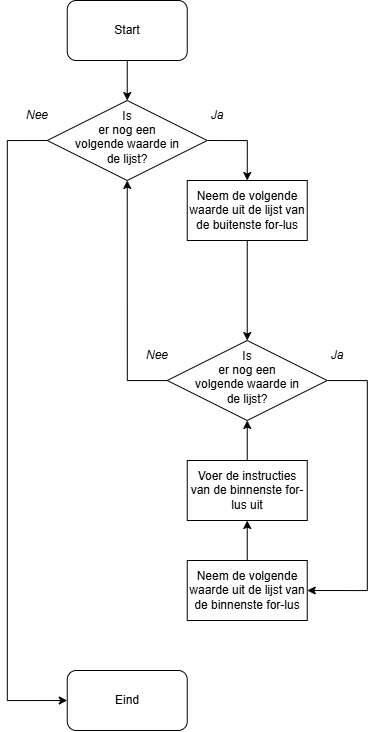
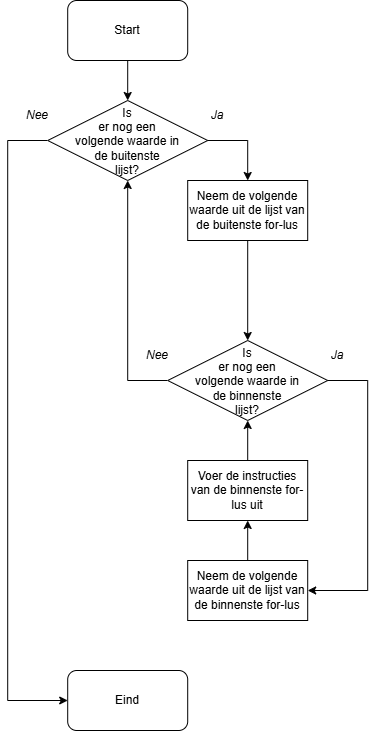
Add explanation for using 'end' in print() and update lesson topics in index

diff --git a/book/blok1/index.md b/book/blok1/index.md
@@ -12,13 +12,13 @@ Introductie van blok 1.
 
 ## Spoorboekje
 
-| week           | lesstof                                                          | huiswerkadvies                                                                                                                       |
-| -------------- | ---------------------------------------------------------------- | ------------------------------------------------------------------------------------------------------------------------------------ |
-| 1.1:<br> 24-08 | Introductieweek / geen les                                       | Introductieweek / geen les                                                                                                           |
-| 1.2:<br> 31-08 | Grondslagen:<br>Toestanden<br><br>Python Arcade 1                | <br>Maak de vragen in OneNote van dit onderwerp<br><br>Maak de herhalingsvragen van H1 (onderaan pagina)                             |
-| 1.3:<br> 07-09 | Grondslagen:<br>Algoritmen & beslissingen<br><br>Python Arcade 3 | <br>Maak de vragen in OneNote van dit onderwerp<br>Maak de herhalingsvragen van H3 (onderaan pagina)                                 |
-| 1.4:<br> 14-09 | Grondslagen:<br>Datastructuren<br><br>Python Arcade 4            | <br>Maak de vragen in OneNote van dit onderwerp<br><br>Maak de herhalingsvragen van H4 (onderaan pagina)                             |
-| 1.5:<br> 21-09 | Grondslagen:<br>Lussen<br><br>Python Arcade 6                    | <br>Maak de vragen in OneNote van dit onderwerp<br><br>Maak de herhalingsvragen van H6 (onderaan pagina)                             |
-| 1.6:<br> 28-09 | Grondslagen:<br>Grammatica’s<br><br>Python Arcade 7              | <br>Maak de vragen in OneNote van dit onderwerp<br><br>Maak de herhalingsvragen van H7 (onderaan pagina)                             |
-| 1.7:<br> 05-10 | Grondslagen:<br>Toeval & combineren<br><br>Python Arcade 9       | <br>Maak de vragen in OneNote van dit onderwerp<br><br>Maak de herhalingsvragen van H9 (onderaan pagina) <br><br> Maak de oefentoets |
+| week           | lesstof                                                          | huiswerkadvies                                                                                             |
+| -------------- | ---------------------------------------------------------------- | ---------------------------------------------------------------------------------------------------------- |
+| 1.1:<br> 24-08 | Introductieweek / geen les                                       | Introductieweek / geen les                                                                                 |
+| 1.2:<br> 31-08 | Grondslagen:<br>Toestanden<br><br>Python Arcade 1                | <br>Maak de vragen in OneNote van dit onderwerp<br><br>Maak de herhalingsvragen van H1 (onderaan pagina)   |
+| 1.3:<br> 07-09 | Grondslagen:<br>Algoritmen & beslissingen<br><br>Python Arcade 3 | <br>Maak de vragen in OneNote van dit onderwerp<br>Maak de herhalingsvragen van H3 (onderaan pagina)       |
+| 1.4:<br> 14-09 | Grondslagen:<br>Datastructuren<br><br>Python Arcade 7            | <br>Maak de vragen in OneNote van dit onderwerp<br><br>Maak de herhalingsvragen van H7 (onderaan pagina)   |
+| 1.5:<br> 21-09 | Grondslagen:<br>Lussen<br><br>Python Arcade 4 & 6                | <br>Maak de vragen in OneNote van dit onderwerp<br><br>Maak de herhalingsvragen van H4+6 (onderaan pagina) |
+| 1.6:<br> 28-09 | Grondslagen:<br>Functies<br><br>Python Arcade 9                  | <br>Maak de vragen in OneNote van dit onderwerp<br><br>Maak de herhalingsvragen van H9 (onderaan pagina)   |
+| 1.7:<br> 05-10 | Herhaling & leren voor de toets<br><br>Oefentoets                | <br>Maak de vragen in OneNote van dit onderwerp<br><br>Maak de oefentoets                                  |
 | TW1 <br> 07-10 | Toets T1:<br>grondslagen + inleiding programmeren                |

diff --git a/book/blok1/hoofdstuk4.md b/book/blok1/hoofdstuk4.md
@@ -310,6 +310,11 @@ Uitvoer:
 * * * * *
 ```
 
+### Gebruik van end in print()
+
+In het voorbeeld hierboven zie je dat er gebruik wordt gemaakt van `end=" "` in de functie `print()`. Eerder gebruikte je `end=` niet bij deze functie. In dat geval komt er altijd een **nieuwe regel** na het printen van de tekst. Als `end` wel gebruikt wordt, zal het gegeven symbool (in het voorbeeld hierboven een spatie) achter te tekst komen in plaats van een nieuwe regel.
+De tweede `print()` die wordt uitgevoerd naar de binnenste for-lus, zorgt er dus voor dat er een nieuwe regel gestart wordt.
+
 ### Stroomdiagram van geneste lussen
 
 ![Afbeelding van een geneste for-lus](img/1.4_geneste_for_lus.png)
